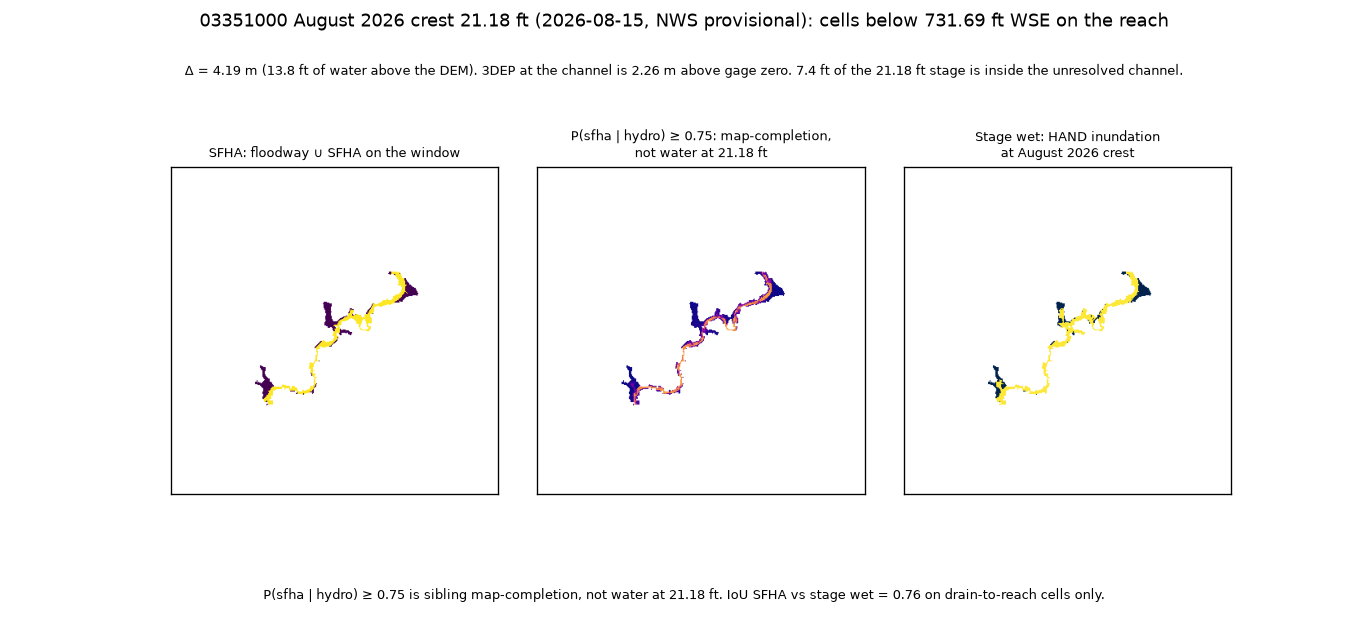
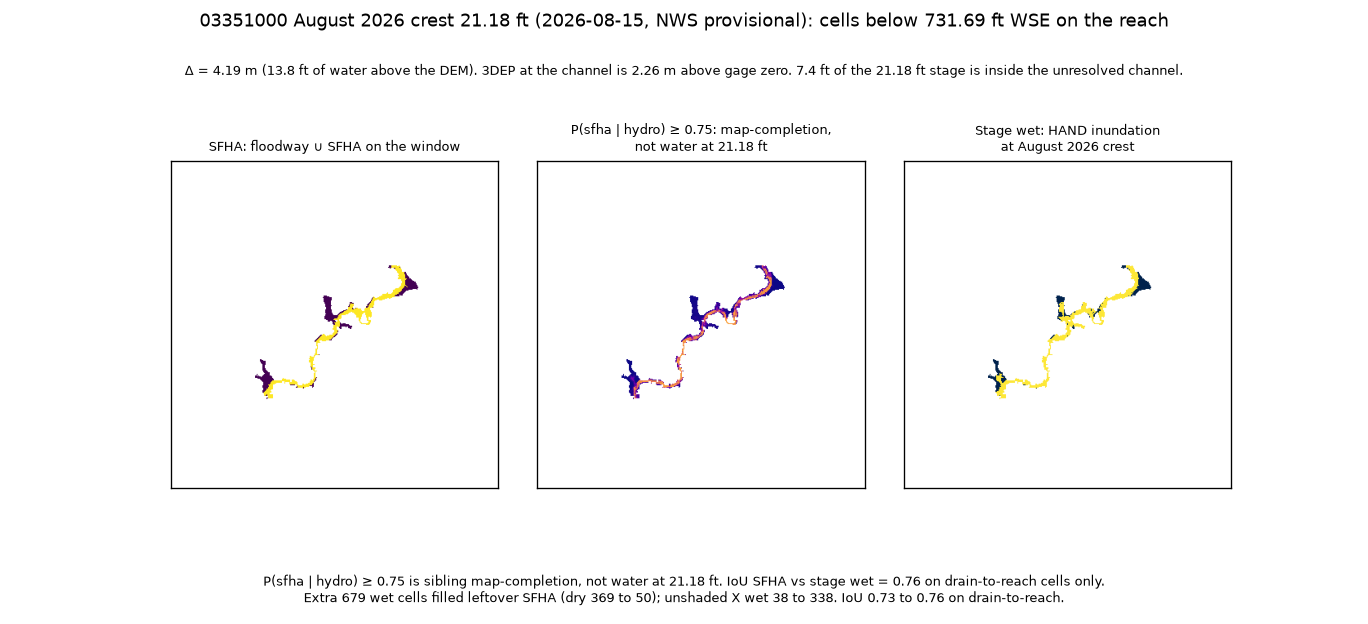
Caption crest IoU 0.73 to 0.76 from leftover SFHA fill.
Extra 679 wet cells: SFHA dry 369 to 50, unshaded X 38 to 338.
Provisional 21.18 ft stays. v1 three_wet.png unchanged.

diff --git a/src/stageflood/live.py b/src/stageflood/live.py
@@ -11,7 +11,7 @@ from typing import Any
 import numpy as np
 
 from stageflood.claims import require_clean, require_paths_clean
-from stageflood.compare import overlap_table
+from stageflood.compare import overlap_table, pair_fill_sentence
 from stageflood.config import (
     CREST_DATE,
     CREST_LABEL,
@@ -459,6 +459,10 @@ def run_crest_figure(
     b = json.loads(b_path.read_text(encoding="utf-8"))
     if b.get("huc_wide"):
         raise GateError("crest refuses a HUC-wide wet mask")
+    c_path = out_dir / "stage_c_report.json"
+    if not c_path.is_file():
+        raise GateError("run v1 live (stage C) before the crest figure")
+    c = json.loads(c_path.read_text(encoding="utf-8"))
     if check_sibling:
         shas = check_live_sibling(sibling_root)
         locked = json.loads((out_dir / "stage0_report.json").read_text(encoding="utf-8")).get(
@@ -528,7 +532,12 @@ def run_crest_figure(
         stage_ft=stage_ft,
         dem_source=dem_source,
     )
-    footer = reach_footer(iou_sfha_wet=float(table["iou_sfha_wet"]), stage_ft=stage_ft)
+    pair = pair_fill_sentence(baseline=c, later=table)
+    footer = (
+        reach_footer(iou_sfha_wet=float(table["iou_sfha_wet"]), stage_ft=stage_ft)
+        + "\n"
+        + pair
+    )
     fig = write_three_panel(
         dest_fig,
         wet=wet,
@@ -581,6 +590,7 @@ def run_crest_figure(
         "figure_title": title,
         "figure_delta_line": delta_line,
         "figure_footer": footer,
+        "pair_fill": pair,
         "wet_meaning": (
             f"cells below {wse_ft:.2f} ft WSE among cells that drain to this "
             f"{float(a.get('reach_along_m') or REACH_ALONG_M) / 1000.0:.0f} km reach"

diff --git a/tests/test_compare.py b/tests/test_compare.py
@@ -3,7 +3,7 @@
 import numpy as np
 import pytest
 
-from stageflood.compare import overlap_table
+from stageflood.compare import overlap_table, pair_fill_sentence
 from stageflood.config import ZONE_SFHA, ZONE_UNSHADED_X
 from stageflood.errors import GateError
 
@@ -22,6 +22,15 @@ def test_overlap_counts_and_refuses_huc_wide() -> None:
     assert t["n_wet_unshaded_x"] == 1
     assert t["n_sfha_dry_at_stage"] == 0
     assert t["iou_universe"] == "drain-to-reach"
+    later = dict(t)
+    later["n_stage_wet"] = t["n_stage_wet"] + 2
+    later["n_sfha_dry_at_stage"] = 0
+    later["n_wet_unshaded_x"] = t["n_wet_unshaded_x"] + 1
+    later["iou_sfha_wet"] = 0.76
+    s = pair_fill_sentence(baseline=t, later=later)
+    assert "leftover SFHA" in s
+    assert "unshaded X" in s
+    assert "drain-to-reach" in s
     with pytest.raises(GateError):
         overlap_table(
             wet=wet,

diff --git a/src/stageflood/compare.py b/src/stageflood/compare.py
@@ -68,3 +68,19 @@ def overlap_table(
         "iou_p_wet": _iou(b, c),
         "iou_sfha_p": _iou(a, b),
     }
+
+
+def pair_fill_sentence(*, baseline: dict, later: dict) -> str:
+    """One sentence: leftover SFHA fill vs unshaded X, IoU on drain-to-reach."""
+    extra = int(later["n_stage_wet"]) - int(baseline["n_stage_wet"])
+    dry0 = int(baseline["n_sfha_dry_at_stage"])
+    dry1 = int(later["n_sfha_dry_at_stage"])
+    x0 = int(baseline["n_wet_unshaded_x"])
+    x1 = int(later["n_wet_unshaded_x"])
+    iou0 = float(baseline["iou_sfha_wet"])
+    iou1 = float(later["iou_sfha_wet"])
+    return (
+        f"Extra {extra} wet cells filled leftover SFHA (dry {dry0} to {dry1}); "
+        f"unshaded X wet {x0} to {x1}. "
+        f"IoU {iou0:.2f} to {iou1:.2f} on drain-to-reach."
+    )

diff --git a/src/stageflood/figure.py b/src/stageflood/figure.py
@@ -121,8 +121,8 @@ def write_three_panel(
         ax.set_yticks([])
     fig.suptitle(title, fontsize=11)
     fig.text(0.5, 0.88, delta_line, ha="center", fontsize=8, wrap=True)
-    fig.subplots_adjust(bottom=0.14, top=0.80, wspace=0.12)
-    fig.text(0.5, 0.04, footer, ha="center", fontsize=8)
+    fig.subplots_adjust(bottom=0.16, top=0.80, wspace=0.12)
+    fig.text(0.5, 0.035, footer, ha="center", fontsize=7.5)
     dest.parent.mkdir(parents=True, exist_ok=True)
     fig.savefig(dest, dpi=120)
     plt.close(fig)

diff --git a/tests/test_crest.py b/tests/test_crest.py
@@ -96,6 +96,8 @@ def test_crest_png_leaves_v1_figure(tmp_path: Path) -> None:
     assert "21.18" in crest["figure_title"]
     assert "Δ = 4.10 m" in crest["figure_delta_line"]
     assert "not water at 21.18 ft" in crest["figure_footer"]
+    assert "leftover SFHA" in crest["figure_footer"]
+    assert "unshaded X" in crest["figure_footer"]
     import rasterio
 
     with rasterio.open(tmp_path / "rasters" / f"wet_crest_{CREST_DATE}.tif") as src:

diff --git a/tests/test_readme.py b/tests/test_readme.py
@@ -19,5 +19,6 @@ def test_license_mit_and_readme_lead() -> None:
     assert "1.09" in README
     assert "21.18" in README
     assert "three_wet_crest_2026-08-15.png" in README
+    assert "leftover SFHA" in README
     assert "indiana_flood_completion" in README
     assert ".venv/bin/python -m pytest tests -q" in README

diff --git a/README.md b/README.md
@@ -4,7 +4,7 @@ One reach. One gage. USGS **03351000** / NWS **NORI3** White River near Nora, IN
 
 Live Δ is **1.09 m**: 3DEP at the channel sits 2.26 m above gage zero, so flood stage on this 30 m grid is 3.6 ft of water above the DEM. The wet mask is cells below a 721.51 ft water surface among drain-to-reach cells (1197 / 2604), not 11 ft of inundation. IoU vs SFHA is 0.73 on drain-to-reach cells only. v1 figure: `logs/nora_live/three_wet.png`.
 
-A second PNG uses the same window, hashes, and `h_channel` at the NWS NORI3 **21.18 ft** crest of **2026-08-15** (provisional). WSE = 731.69 ft NAVD88. New Δ, new file `logs/nora_live/three_wet_crest_2026-08-15.png`. Same model. v1 stays frozen.
+A second PNG uses the same window, hashes, and `h_channel` at the NWS NORI3 **21.18 ft** crest of **2026-08-15** (provisional). WSE = 731.69 ft NAVD88. New Δ, new file `logs/nora_live/three_wet_crest_2026-08-15.png`. Extra 679 wet cells filled leftover SFHA (dry 369 to 50); unshaded X wet 38 to 338; IoU 0.73 to 0.76 on drain-to-reach. Same model. v1 stays frozen. This tree stops at those two figures.
 
 Sibling `indiana_flood_completion` stays frozen. This tree does not recompute HAND, does not train on FEMA, and does not paint the whole HUC.
 

diff --git a/AGENTS.md b/AGENTS.md
@@ -4,7 +4,7 @@ Private GitHub. MIT on this snapshot. Geography is USGS 03351000 Nora on HUC-8 0
 
 ## Formula
 
-WSE_ft = 710.51 + stage (NAVD88). `h_channel` is sibling DEM at the White River cell nearest the gage, not gage zero. Wet iff D8 drain-to-reach and finite HAND and `HAND < Δ`, `Δ = WSE − h_channel`. Live Δ = 1.09 m is the 3DEP offset result; caption it, do not treat it as a bug. Paint uses stage/WSE, not Q. `P(sfha | hydro)` is map-completion, not water at 11 ft. IoU is drain-to-reach only. v1 is 11 ft (`three_wet.png`). Crest 21.18 ft is a second PNG on the same window.
+WSE_ft = 710.51 + stage (NAVD88). `h_channel` is sibling DEM at the White River cell nearest the gage, not gage zero. Wet iff D8 drain-to-reach and finite HAND and `HAND < Δ`, `Δ = WSE − h_channel`. Live Δ = 1.09 m is the 3DEP offset result; caption it, do not treat it as a bug. Paint uses stage/WSE, not Q. `P(sfha | hydro)` is map-completion, not water at 11 ft. IoU is drain-to-reach only. v1 is 11 ft (`three_wet.png`). Crest 21.18 ft is a second PNG on the same window. Stop after those two files.
 
 ## Stages
 

diff --git a/METHODOLOGY.md b/METHODOLOGY.md
@@ -81,6 +81,7 @@ Read-only from `~/indiana_flood_completion/data/interim/`. `check_live_sibling()
 
 ## Revisions
 
+- 2026-08-28: Crest PNG sentence: extra wet cells filled leftover SFHA (dry 369 to 50); unshaded X 38 to 338; IoU 0.73 to 0.76 on drain-to-reach. Tree stops: two files, two Δ.
 - 2026-08-28: Second PNG at NWS NORI3 crest 21.18 ft (2026-08-15, provisional) on the frozen v1 window. New Δ, new file. Not a new model.
 - 2026-08-28: Caption live Δ = 1.09 m and 3DEP +2.26 m on `three_wet.png`. Wet mask is cells below 721.51 ft WSE on drain-to-reach. IoU reported on drain-to-reach only. Window D8 not byte-identical to sibling Stage B.
 - 2026-08-28: Lock NAVD88 identity WSE = 710.51 + 11.0 = 721.51 ft. `h_channel` is sibling DEM at the White River cell, not gage datum. 5 km mainstem window. Three captions so P is not water at 11 ft. Band hashes on HAND/DEM/stream paint/P/zone. Live run: White River ftype 558 only, rating 11.00 ft at 10245.31 cfs, Δ = 1.09 m, 1197 wet cells on 2604 drain-to-reach cells.
